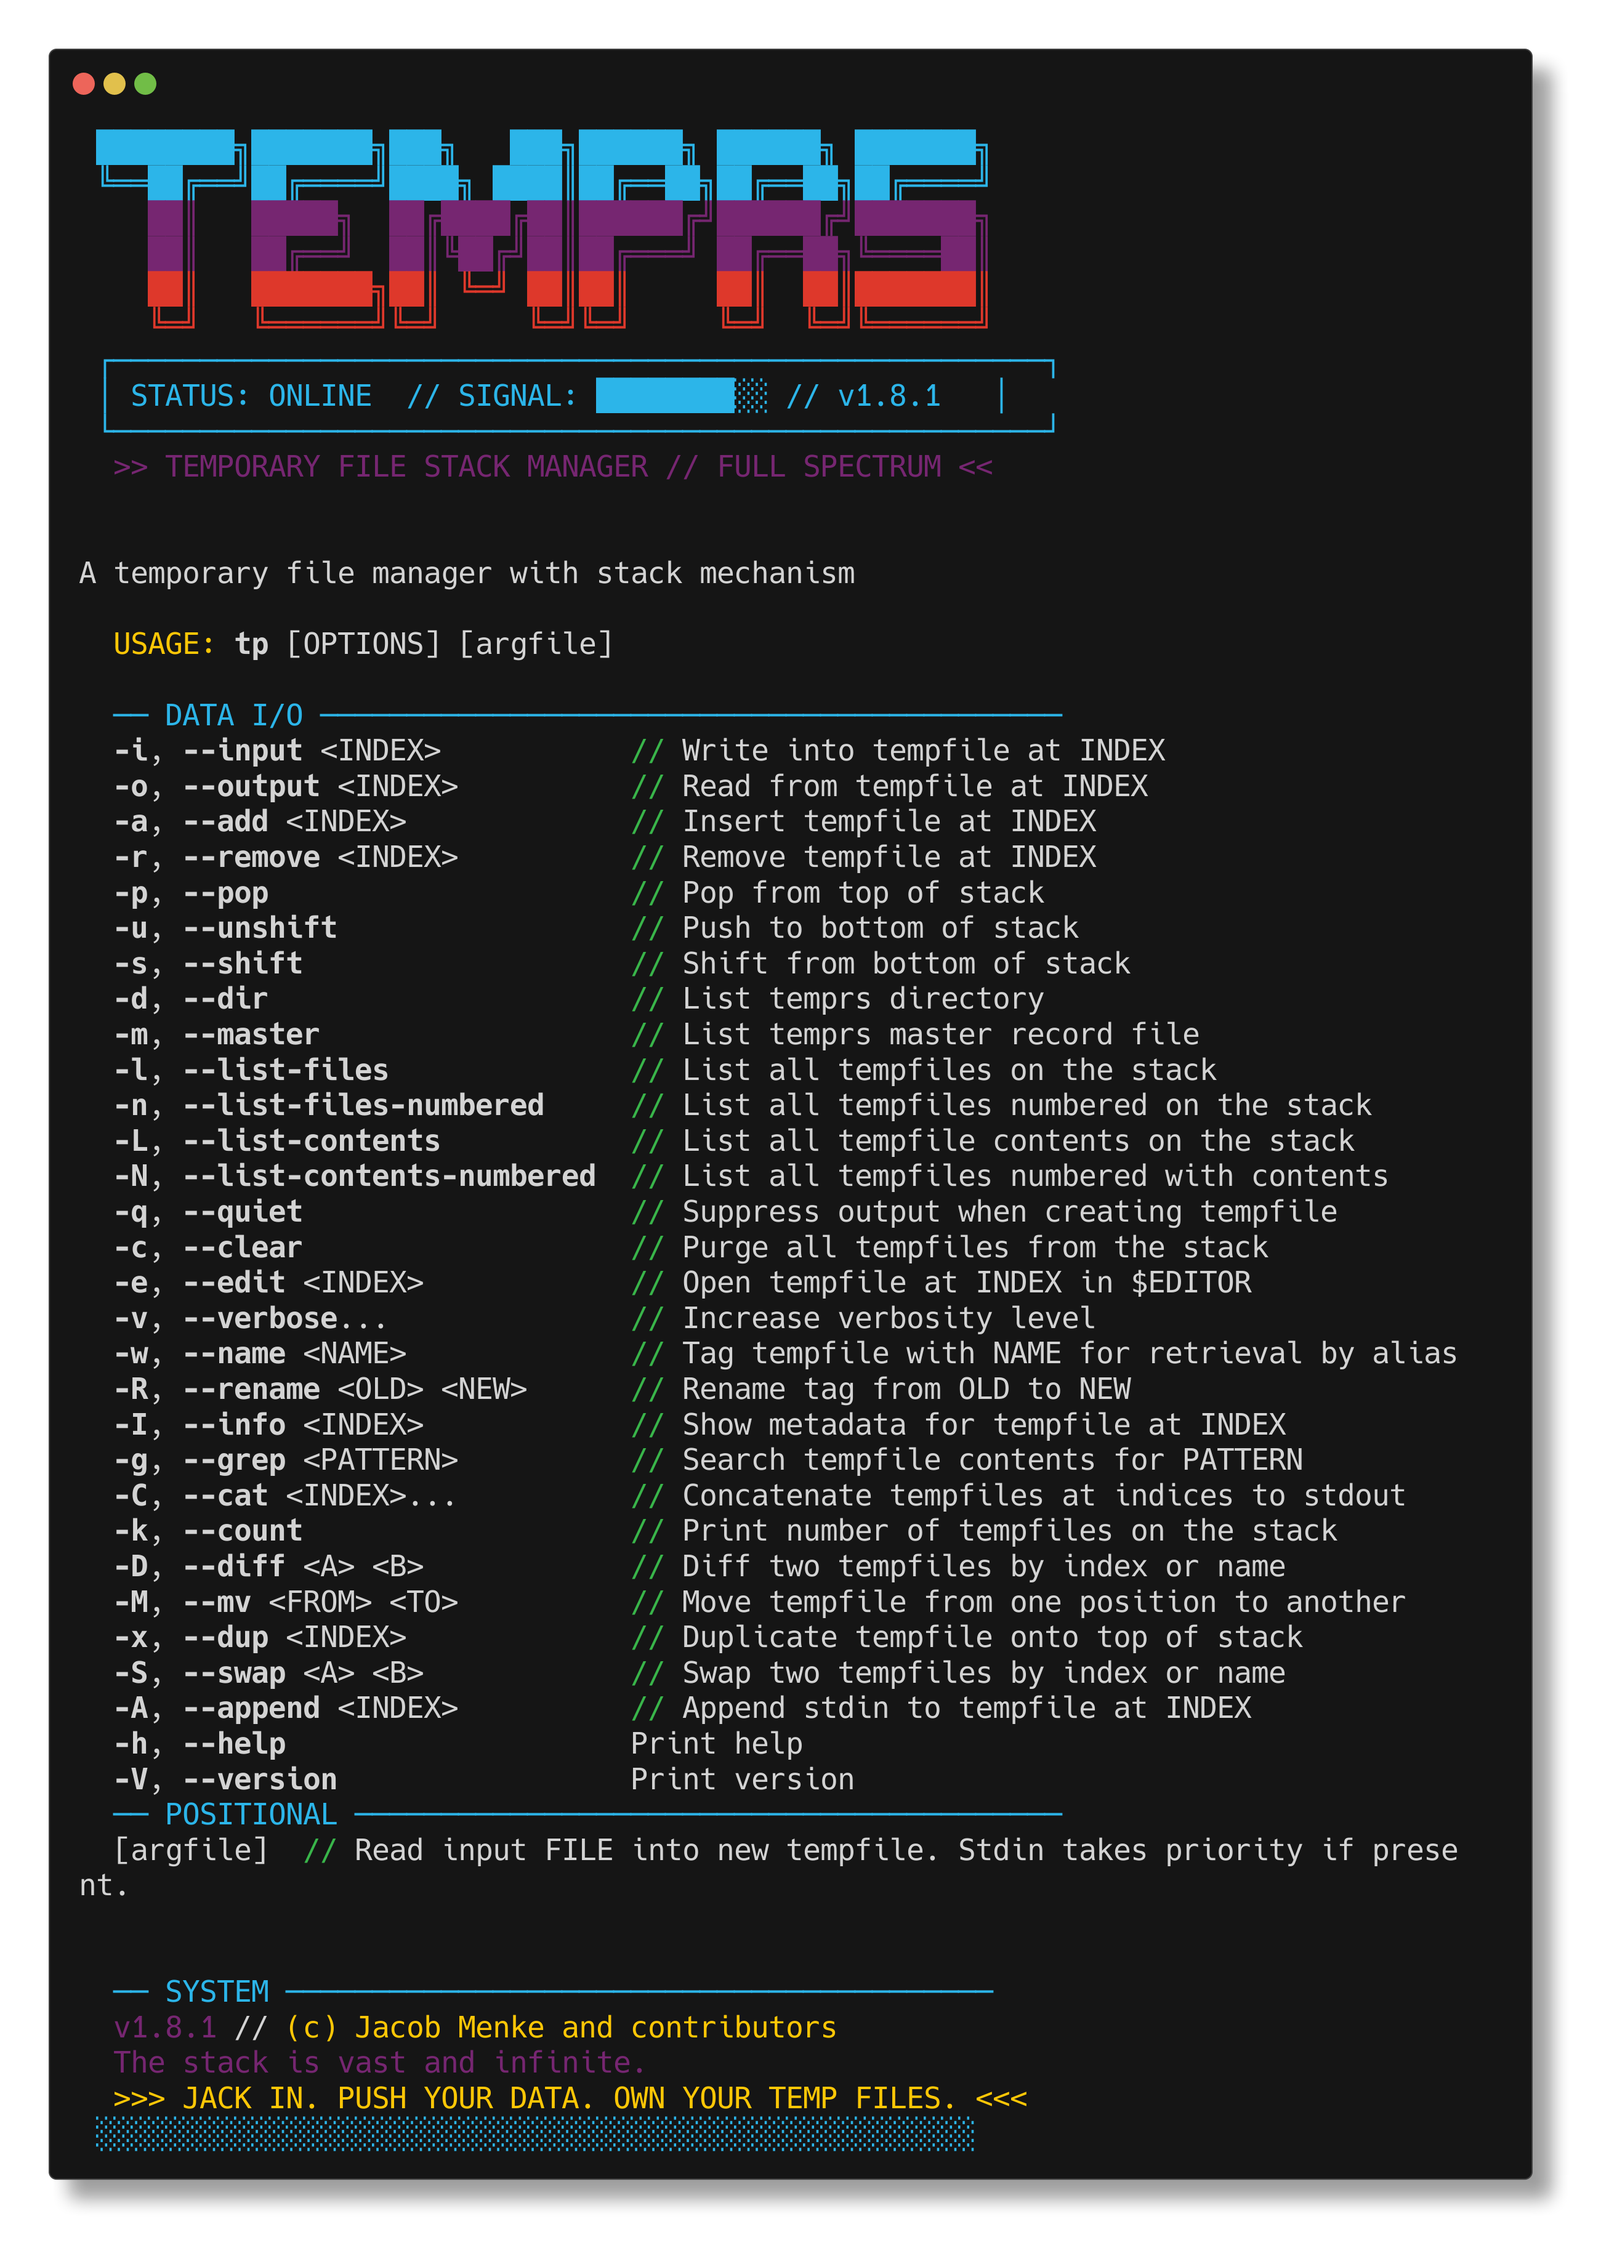
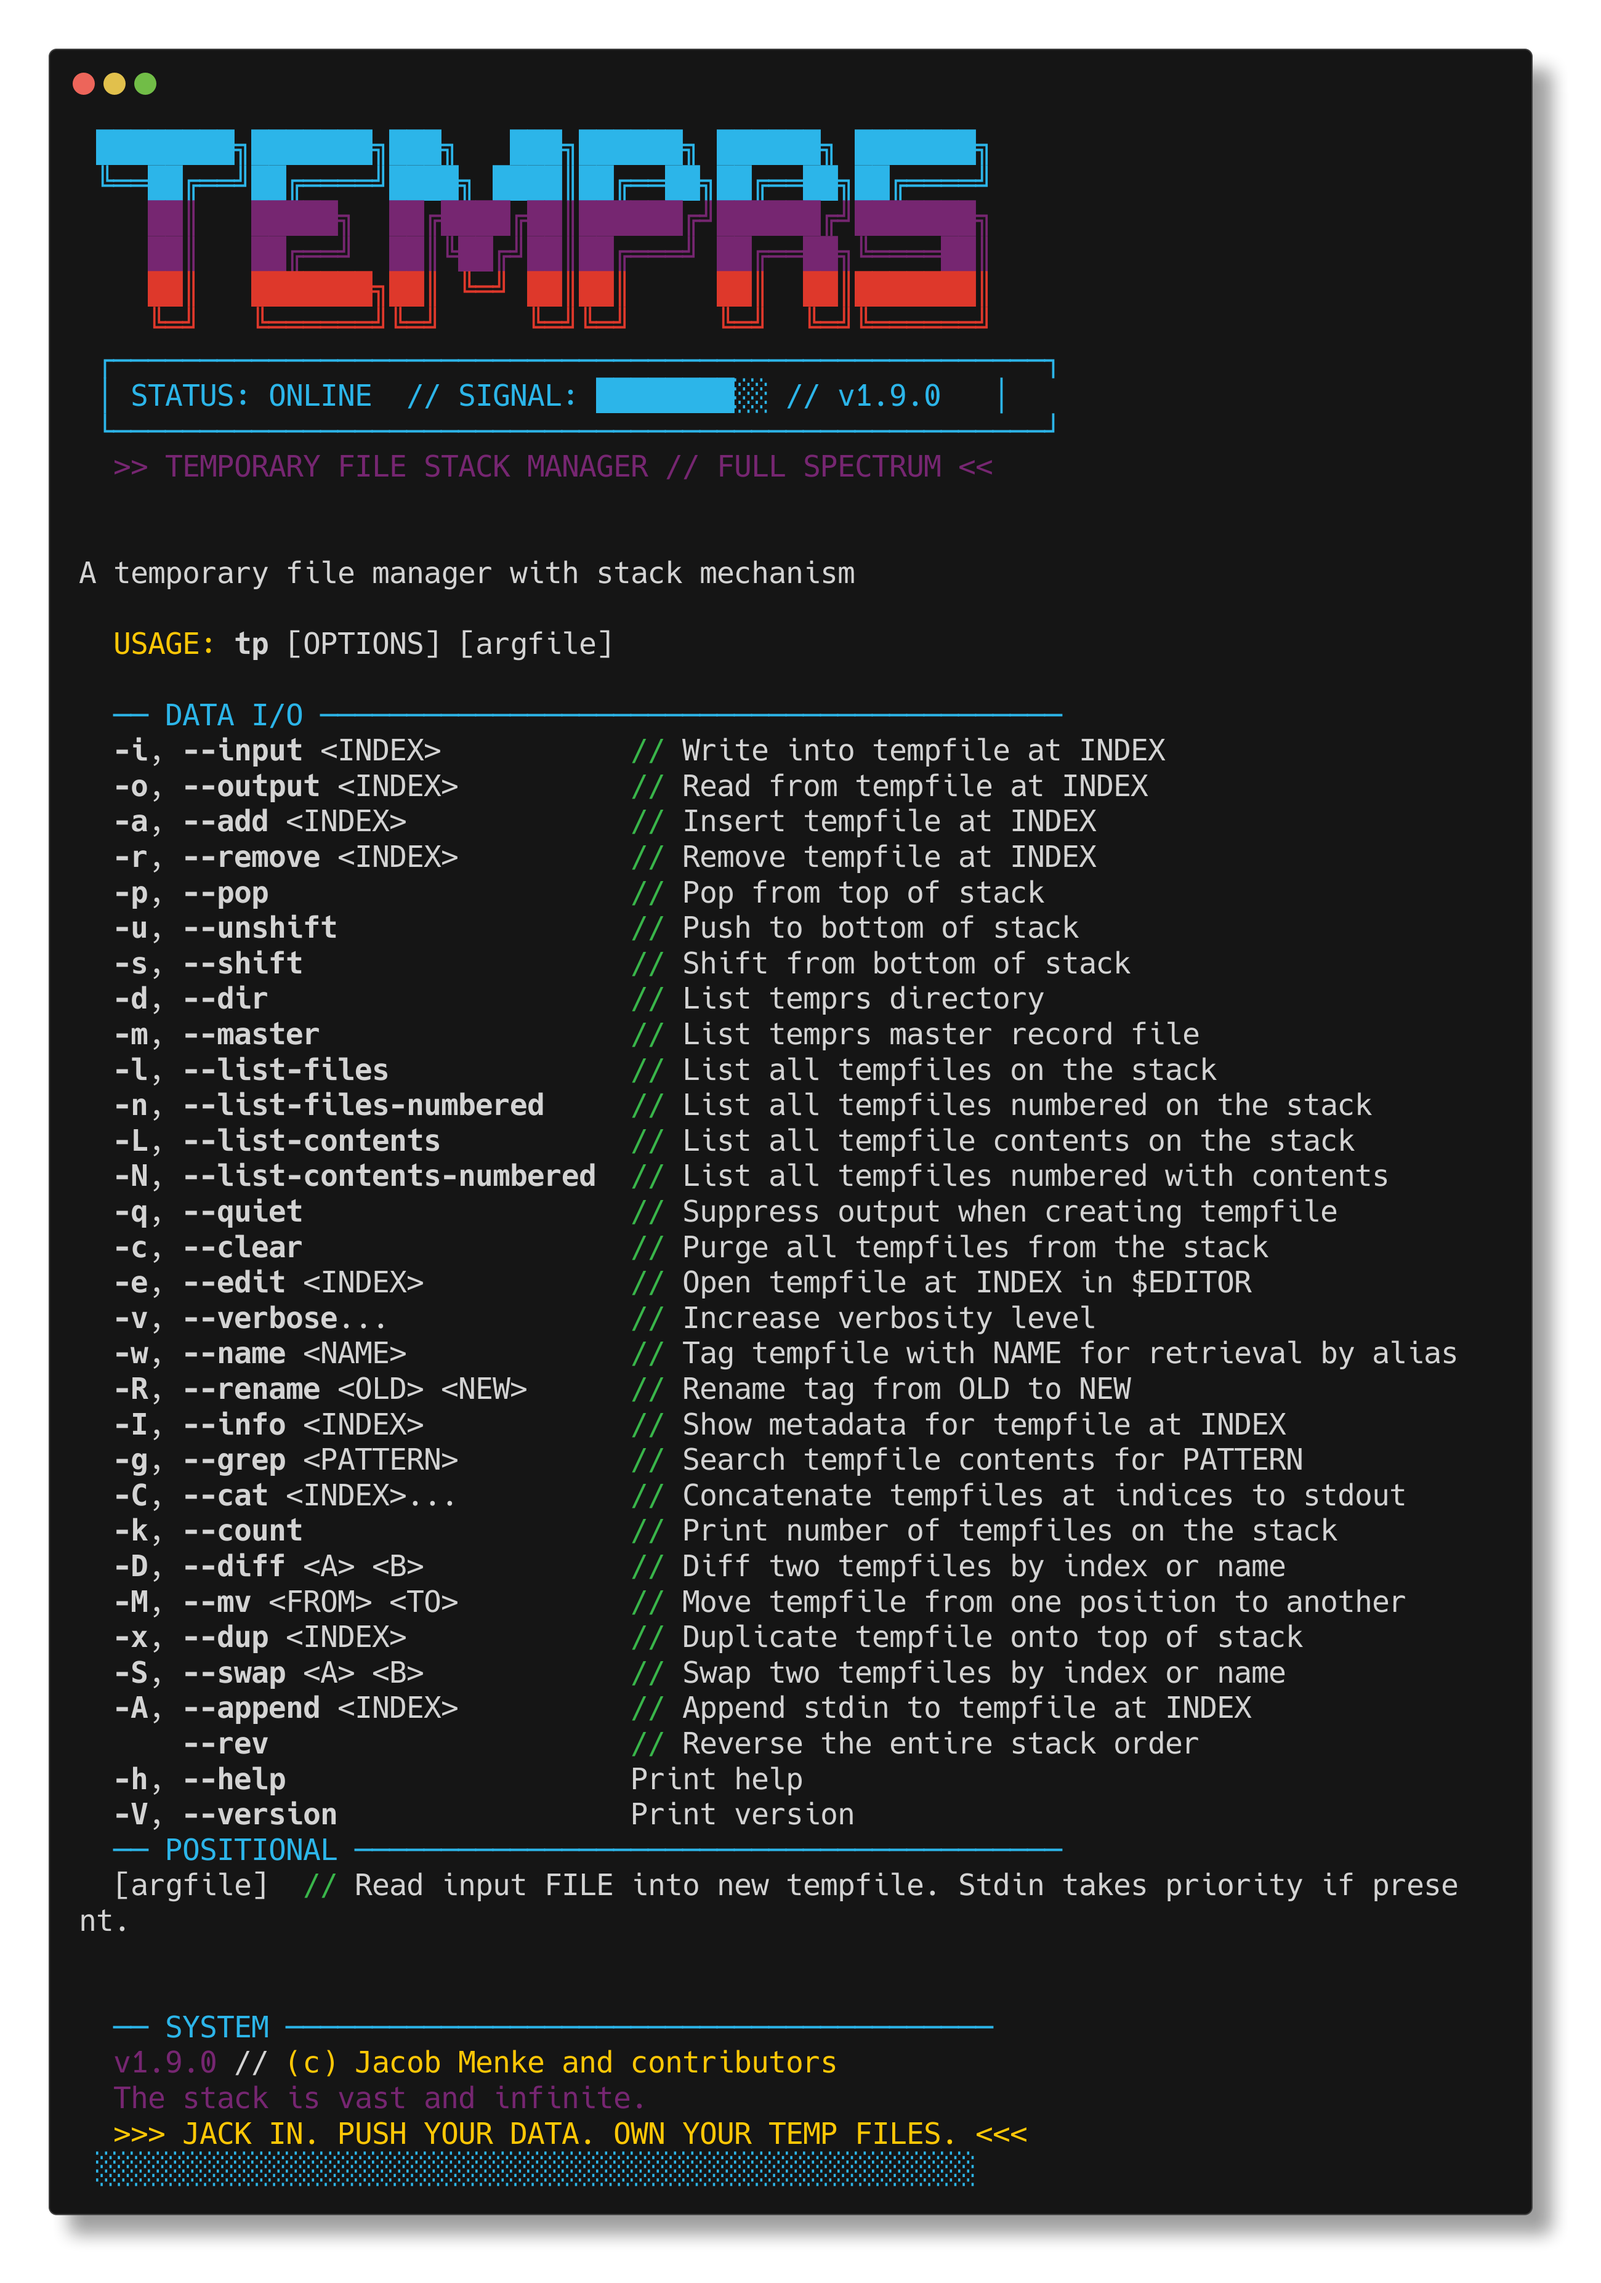
add reverse (--rev), integration tests, bump version to 1.9.0

diff --git a/src/util/consts.rs b/src/util/consts.rs
@@ -43,6 +43,7 @@ pub const MOVE: &str = "move";
 pub const DUP: &str = "dup";
 pub const SWAP: &str = "swap";
 pub const APPEND: &str = "append";
+pub const REVERSE: &str = "reverse";
 pub const ERR_INVALID_NAME: &str = "Invalid or duplicate name";
 pub const ERR_NAME_TAB: &str = "Name must not contain tab characters";
 pub const ERR_EDITOR: &str = "Could not open editor";
@@ -128,7 +129,7 @@ mod tests {
         let flags = vec![
             DIRECTORY, INPUT, OUTPUT, ADD, REMOVE, POP, UNSHIFT,
             ARGFILE, MASTER, VERBOSE, LIST_FILES, LIST_FILES_NUMBERED,
-            LIST_CONTENTS, LIST_CONTENTS_NUMBERED, CLEAR, SHIFT, SILENT, EDIT, TAG, RENAME, INFO, GREP, CAT, COUNT, DIFF, MOVE, DUP, SWAP, APPEND,
+            LIST_CONTENTS, LIST_CONTENTS_NUMBERED, CLEAR, SHIFT, SILENT, EDIT, TAG, RENAME, INFO, GREP, CAT, COUNT, DIFF, MOVE, DUP, SWAP, APPEND, REVERSE,
         ];
         let mut sorted = flags.clone();
         sorted.sort();
@@ -141,7 +142,7 @@ mod tests {
         let flags = vec![
             DIRECTORY, INPUT, OUTPUT, ADD, REMOVE, POP, UNSHIFT,
             ARGFILE, MASTER, VERBOSE, LIST_FILES, LIST_FILES_NUMBERED,
-            LIST_CONTENTS, LIST_CONTENTS_NUMBERED, CLEAR, SHIFT, SILENT, EDIT, TAG, RENAME, INFO, GREP, CAT, COUNT, DIFF, MOVE, DUP, SWAP, APPEND,
+            LIST_CONTENTS, LIST_CONTENTS_NUMBERED, CLEAR, SHIFT, SILENT, EDIT, TAG, RENAME, INFO, GREP, CAT, COUNT, DIFF, MOVE, DUP, SWAP, APPEND, REVERSE,
         ];
         for f in flags {
             assert_eq!(f, f.to_lowercase(), "flag '{}' should be lowercase", f);
@@ -360,7 +361,7 @@ mod tests {
         let flags = vec![
             DIRECTORY, INPUT, OUTPUT, ADD, REMOVE, POP, UNSHIFT,
             ARGFILE, MASTER, VERBOSE, LIST_FILES, LIST_FILES_NUMBERED,
-            LIST_CONTENTS, LIST_CONTENTS_NUMBERED, CLEAR, SHIFT, SILENT, EDIT, TAG, RENAME, INFO, GREP, CAT, COUNT, DIFF, MOVE, DUP, SWAP, APPEND,
+            LIST_CONTENTS, LIST_CONTENTS_NUMBERED, CLEAR, SHIFT, SILENT, EDIT, TAG, RENAME, INFO, GREP, CAT, COUNT, DIFF, MOVE, DUP, SWAP, APPEND, REVERSE,
         ];
         for f in flags {
             assert!(!f.contains(' '), "flag '{}' should not contain spaces", f);
@@ -374,7 +375,7 @@ mod tests {
         let flags = vec![
             DIRECTORY, INPUT, OUTPUT, ADD, REMOVE, POP, UNSHIFT,
             ARGFILE, MASTER, VERBOSE, LIST_FILES, LIST_FILES_NUMBERED,
-            LIST_CONTENTS, LIST_CONTENTS_NUMBERED, CLEAR, SHIFT, SILENT, EDIT, TAG, RENAME, INFO, GREP, CAT, COUNT, DIFF, MOVE, DUP, SWAP, APPEND,
+            LIST_CONTENTS, LIST_CONTENTS_NUMBERED, CLEAR, SHIFT, SILENT, EDIT, TAG, RENAME, INFO, GREP, CAT, COUNT, DIFF, MOVE, DUP, SWAP, APPEND, REVERSE,
         ];
         for f in flags {
             assert!(!f.is_empty(), "flag constant should not be empty");
@@ -388,7 +389,7 @@ mod tests {
         let flags = vec![
             DIRECTORY, INPUT, OUTPUT, ADD, REMOVE, POP, UNSHIFT,
             ARGFILE, MASTER, VERBOSE, LIST_FILES, LIST_FILES_NUMBERED,
-            LIST_CONTENTS, LIST_CONTENTS_NUMBERED, CLEAR, SHIFT, SILENT, EDIT, TAG, RENAME, INFO, GREP, CAT, COUNT, DIFF, MOVE, DUP, SWAP, APPEND,
+            LIST_CONTENTS, LIST_CONTENTS_NUMBERED, CLEAR, SHIFT, SILENT, EDIT, TAG, RENAME, INFO, GREP, CAT, COUNT, DIFF, MOVE, DUP, SWAP, APPEND, REVERSE,
         ];
         for f in flags {
             assert!(f.is_ascii(), "flag '{}' should be ASCII", f);
@@ -402,9 +403,9 @@ mod tests {
         let flags = vec![
             DIRECTORY, INPUT, OUTPUT, ADD, REMOVE, POP, UNSHIFT,
             ARGFILE, MASTER, VERBOSE, LIST_FILES, LIST_FILES_NUMBERED,
-            LIST_CONTENTS, LIST_CONTENTS_NUMBERED, CLEAR, SHIFT, SILENT, EDIT, TAG, RENAME, INFO, GREP, CAT, COUNT, DIFF, MOVE, DUP, SWAP, APPEND,
+            LIST_CONTENTS, LIST_CONTENTS_NUMBERED, CLEAR, SHIFT, SILENT, EDIT, TAG, RENAME, INFO, GREP, CAT, COUNT, DIFF, MOVE, DUP, SWAP, APPEND, REVERSE,
         ];
-        assert_eq!(flags.len(), 29);
+        assert_eq!(flags.len(), 30);
     }
 
     // ── naming conventions ──────────────────────────────

diff --git a/tests/integration.rs b/tests/integration.rs
@@ -89,7 +89,7 @@ fn help_shows_all_flags() {
         "--input", "--output", "--add", "--remove", "--pop", "--unshift",
         "--shift", "--dir", "--master", "--list-files", "--list-files-numbered",
         "--list-contents", "--list-contents-numbered", "--quiet", "--clear",
-        "--verbose", "--edit", "--name", "--rename", "--info", "--grep", "--cat", "--count", "--diff", "--mv", "--dup", "--swap", "--append",
+        "--verbose", "--edit", "--name", "--rename", "--info", "--grep", "--cat", "--count", "--diff", "--mv", "--dup", "--swap", "--append", "--rev",
     ] {
         assert!(text.contains(flag), "missing flag: {}", flag);
     }
@@ -2403,4 +2403,64 @@ fn append_preserves_other_files() {
     run_tp_stdin(&dir, &["-A", "1"], "+extra");
     assert_eq!(stdout(&run_tp(&dir, &["-o", "1"])), "first+extra");
     assert_eq!(stdout(&run_tp(&dir, &["-o", "2"])), "second");
+}
+
+// ── Reverse ────────────────────────────────────────────
+
+#[test]
+fn reverse_stack() {
+    let dir = setup_clean_env();
+    run_tp_stdin(&dir, &[], "AAA");
+    tick();
+    run_tp_stdin(&dir, &[], "BBB");
+    tick();
+    run_tp_stdin(&dir, &[], "CCC");
+    let out = run_tp(&dir, &["--rev"]);
+    assert!(out.status.success());
+    assert_eq!(stdout(&run_tp(&dir, &["-o", "1"])), "CCC");
+    assert_eq!(stdout(&run_tp(&dir, &["-o", "2"])), "BBB");
+    assert_eq!(stdout(&run_tp(&dir, &["-o", "3"])), "AAA");
+}
+
+#[test]
+fn reverse_preserves_names() {
+    let dir = setup_clean_env();
+    run_tp_stdin(&dir, &["-w", "first"], "AA");
+    tick();
+    run_tp_stdin(&dir, &["-w", "last"], "ZZ");
+    run_tp(&dir, &["--rev"]);
+    assert_eq!(stdout(&run_tp(&dir, &["-o", "first"])), "AA");
+    assert_eq!(stdout(&run_tp(&dir, &["-o", "last"])), "ZZ");
+    assert_eq!(stdout(&run_tp(&dir, &["-o", "1"])), "ZZ");
+    assert_eq!(stdout(&run_tp(&dir, &["-o", "2"])), "AA");
+}
+
+#[test]
+fn reverse_single_file_is_noop() {
+    let dir = setup_clean_env();
+    run_tp_stdin(&dir, &[], "only");
+    run_tp(&dir, &["--rev"]);
+    assert_eq!(stdout(&run_tp(&dir, &["-o", "1"])), "only");
+}
+
+#[test]
+fn reverse_empty_stack() {
+    let dir = setup_clean_env();
+    let out = run_tp(&dir, &["--rev"]);
+    assert!(out.status.success());
+}
+
+#[test]
+fn double_reverse_restores_order() {
+    let dir = setup_clean_env();
+    run_tp_stdin(&dir, &[], "AAA");
+    tick();
+    run_tp_stdin(&dir, &[], "BBB");
+    tick();
+    run_tp_stdin(&dir, &[], "CCC");
+    run_tp(&dir, &["--rev"]);
+    run_tp(&dir, &["--rev"]);
+    assert_eq!(stdout(&run_tp(&dir, &["-o", "1"])), "AAA");
+    assert_eq!(stdout(&run_tp(&dir, &["-o", "2"])), "BBB");
+    assert_eq!(stdout(&run_tp(&dir, &["-o", "3"])), "CCC");
 }

diff --git a/src/model/app.rs b/src/model/app.rs
@@ -362,6 +362,9 @@ impl TempApp {
         if matches.get_flag(CLEAR) {
             self.clear_all();
         }
+        if matches.get_flag(REVERSE) {
+            self.reverse_stack();
+        }
         if matches.get_flag(SHIFT) {
             self.remove_at_idx(format!("{}", 1))
         }
@@ -468,6 +471,15 @@ impl TempApp {
             cyber_idx_path_named(i + 1, p, n);
             cyber_hr();
         }
+        exit(0)
+    }
+
+    fn reverse_stack(&mut self) {
+        let mut paths = self.state.temp_file_stack().clone();
+        let mut names = self.state.temp_file_names().clone();
+        paths.reverse();
+        names.reverse();
+        util_paths_and_names_to_file(paths, &names, self.state.master_record_file());
         exit(0)
     }
 

diff --git a/src/model/opts.rs b/src/model/opts.rs
@@ -201,6 +201,10 @@ pub fn parse_opts() -> Command {
             .value_name("INDEX")
             .allow_hyphen_values(true)
             .help("\x1b[32m//\x1b[0m Append stdin to tempfile at INDEX"))
+        .arg(Arg::new(REVERSE)
+            .long("rev")
+            .action(ArgAction::SetTrue)
+            .help("\x1b[32m//\x1b[0m Reverse the entire stack order"))
 }
 
 #[cfg(test)]
@@ -606,7 +610,7 @@ mod tests {
         let custom_count = app.get_arguments()
             .filter(|a| a.get_id() != "help" && a.get_id() != "version")
             .count();
-        assert_eq!(custom_count, 29);
+        assert_eq!(custom_count, 30);
     }
 
     // ── flag mutual independence ────────────────────────

diff --git a/README.md b/README.md
@@ -278,6 +278,9 @@ tp -x mydata
 # swap two tempfiles
 tp -S 1 3
 tp -S alpha beta
+
+# reverse the entire stack
+tp --rev
 ```
 
 ---
